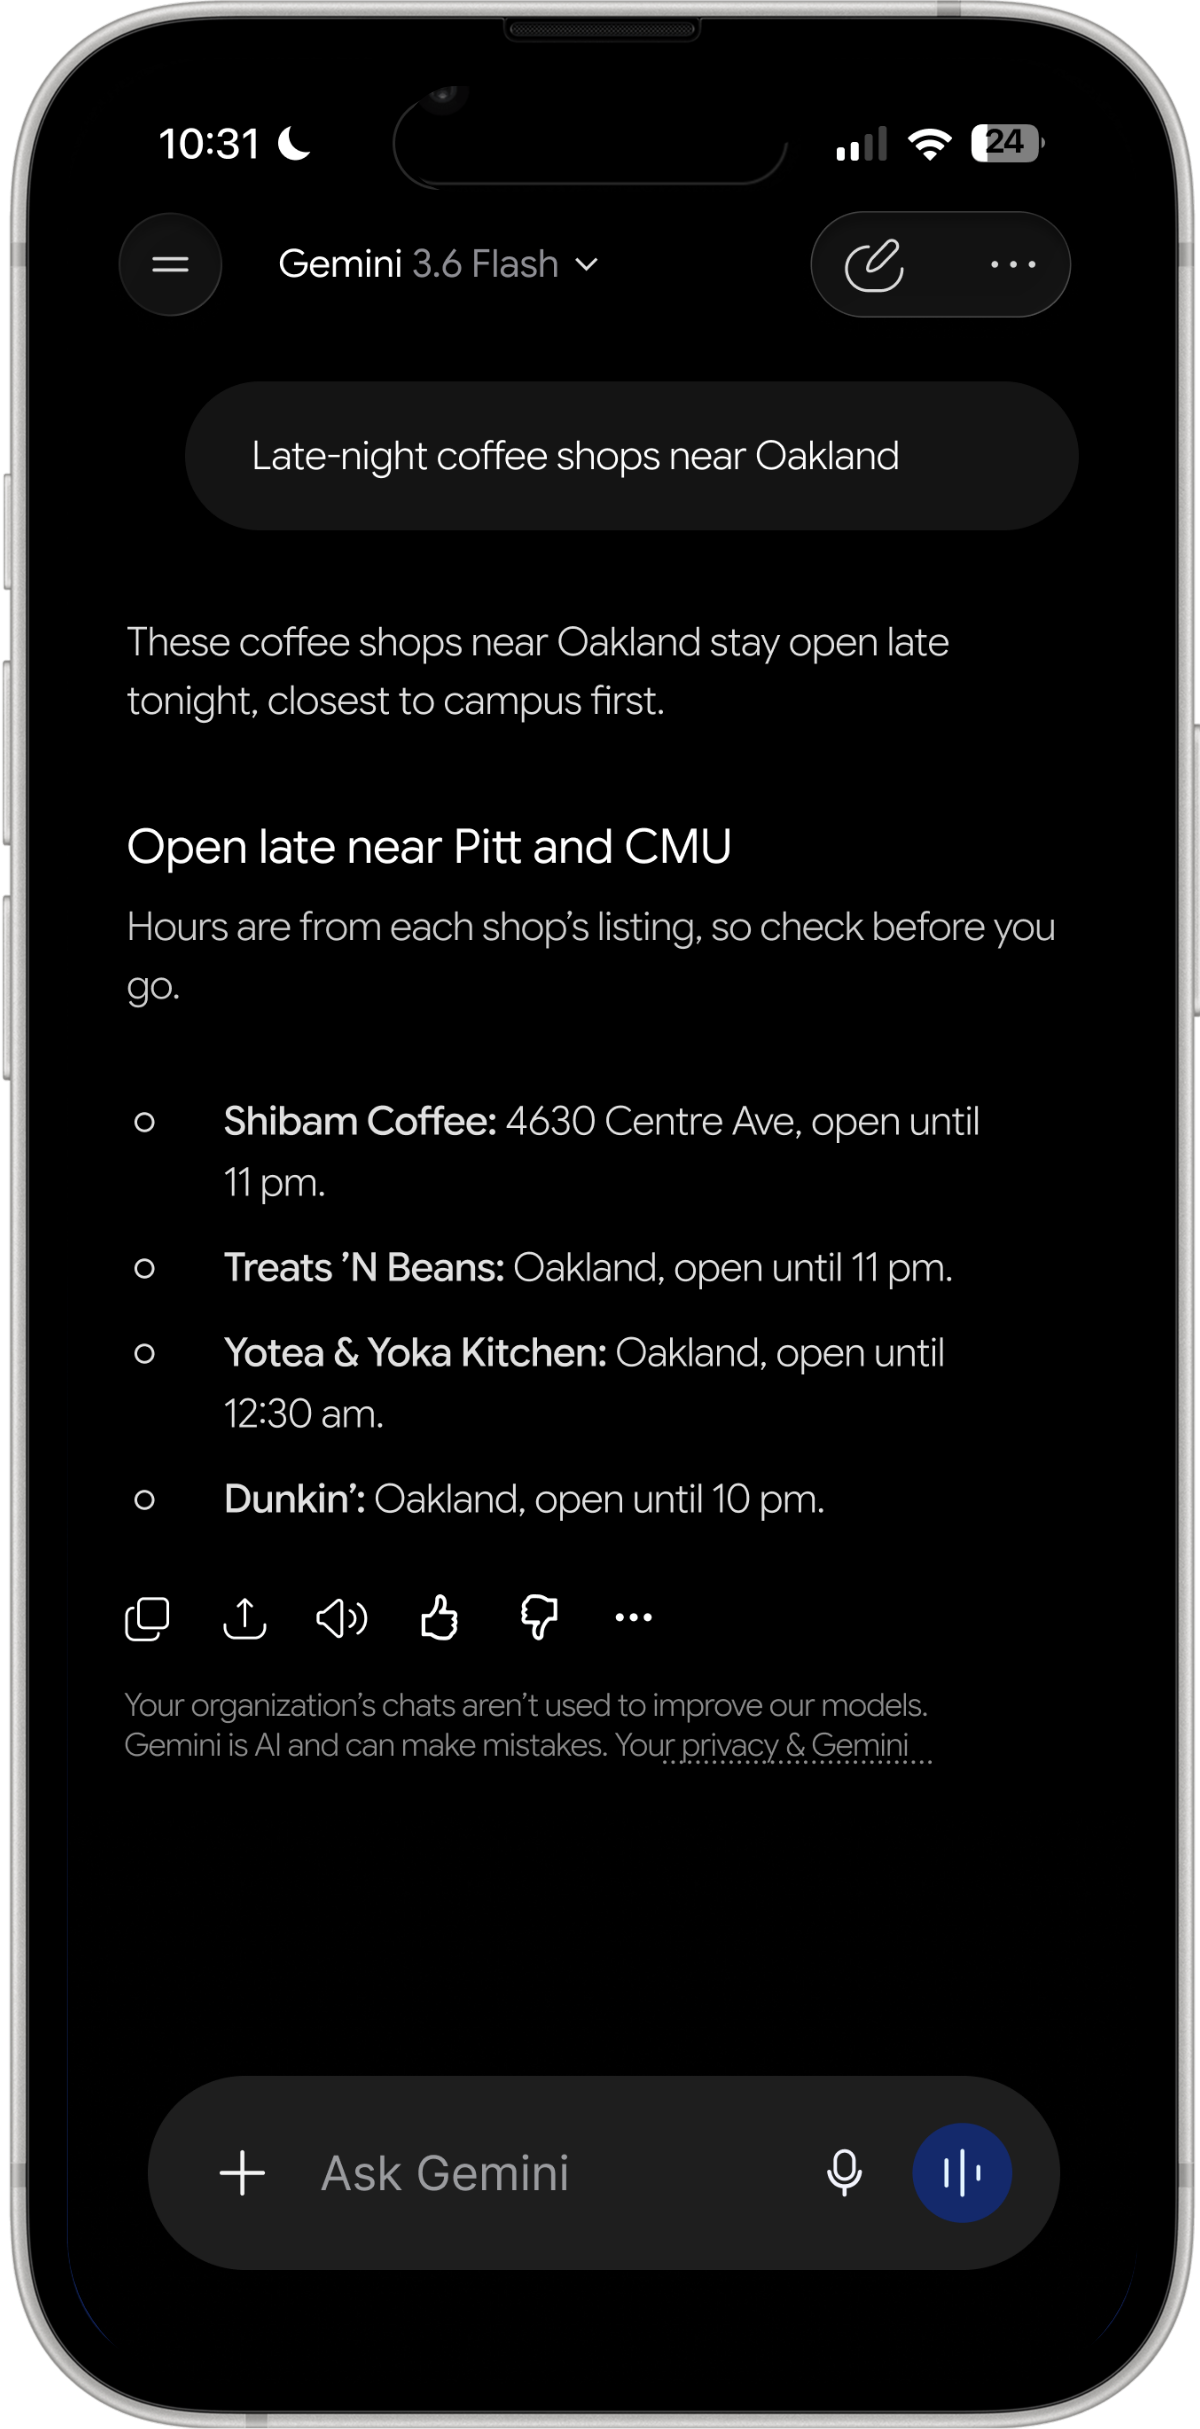
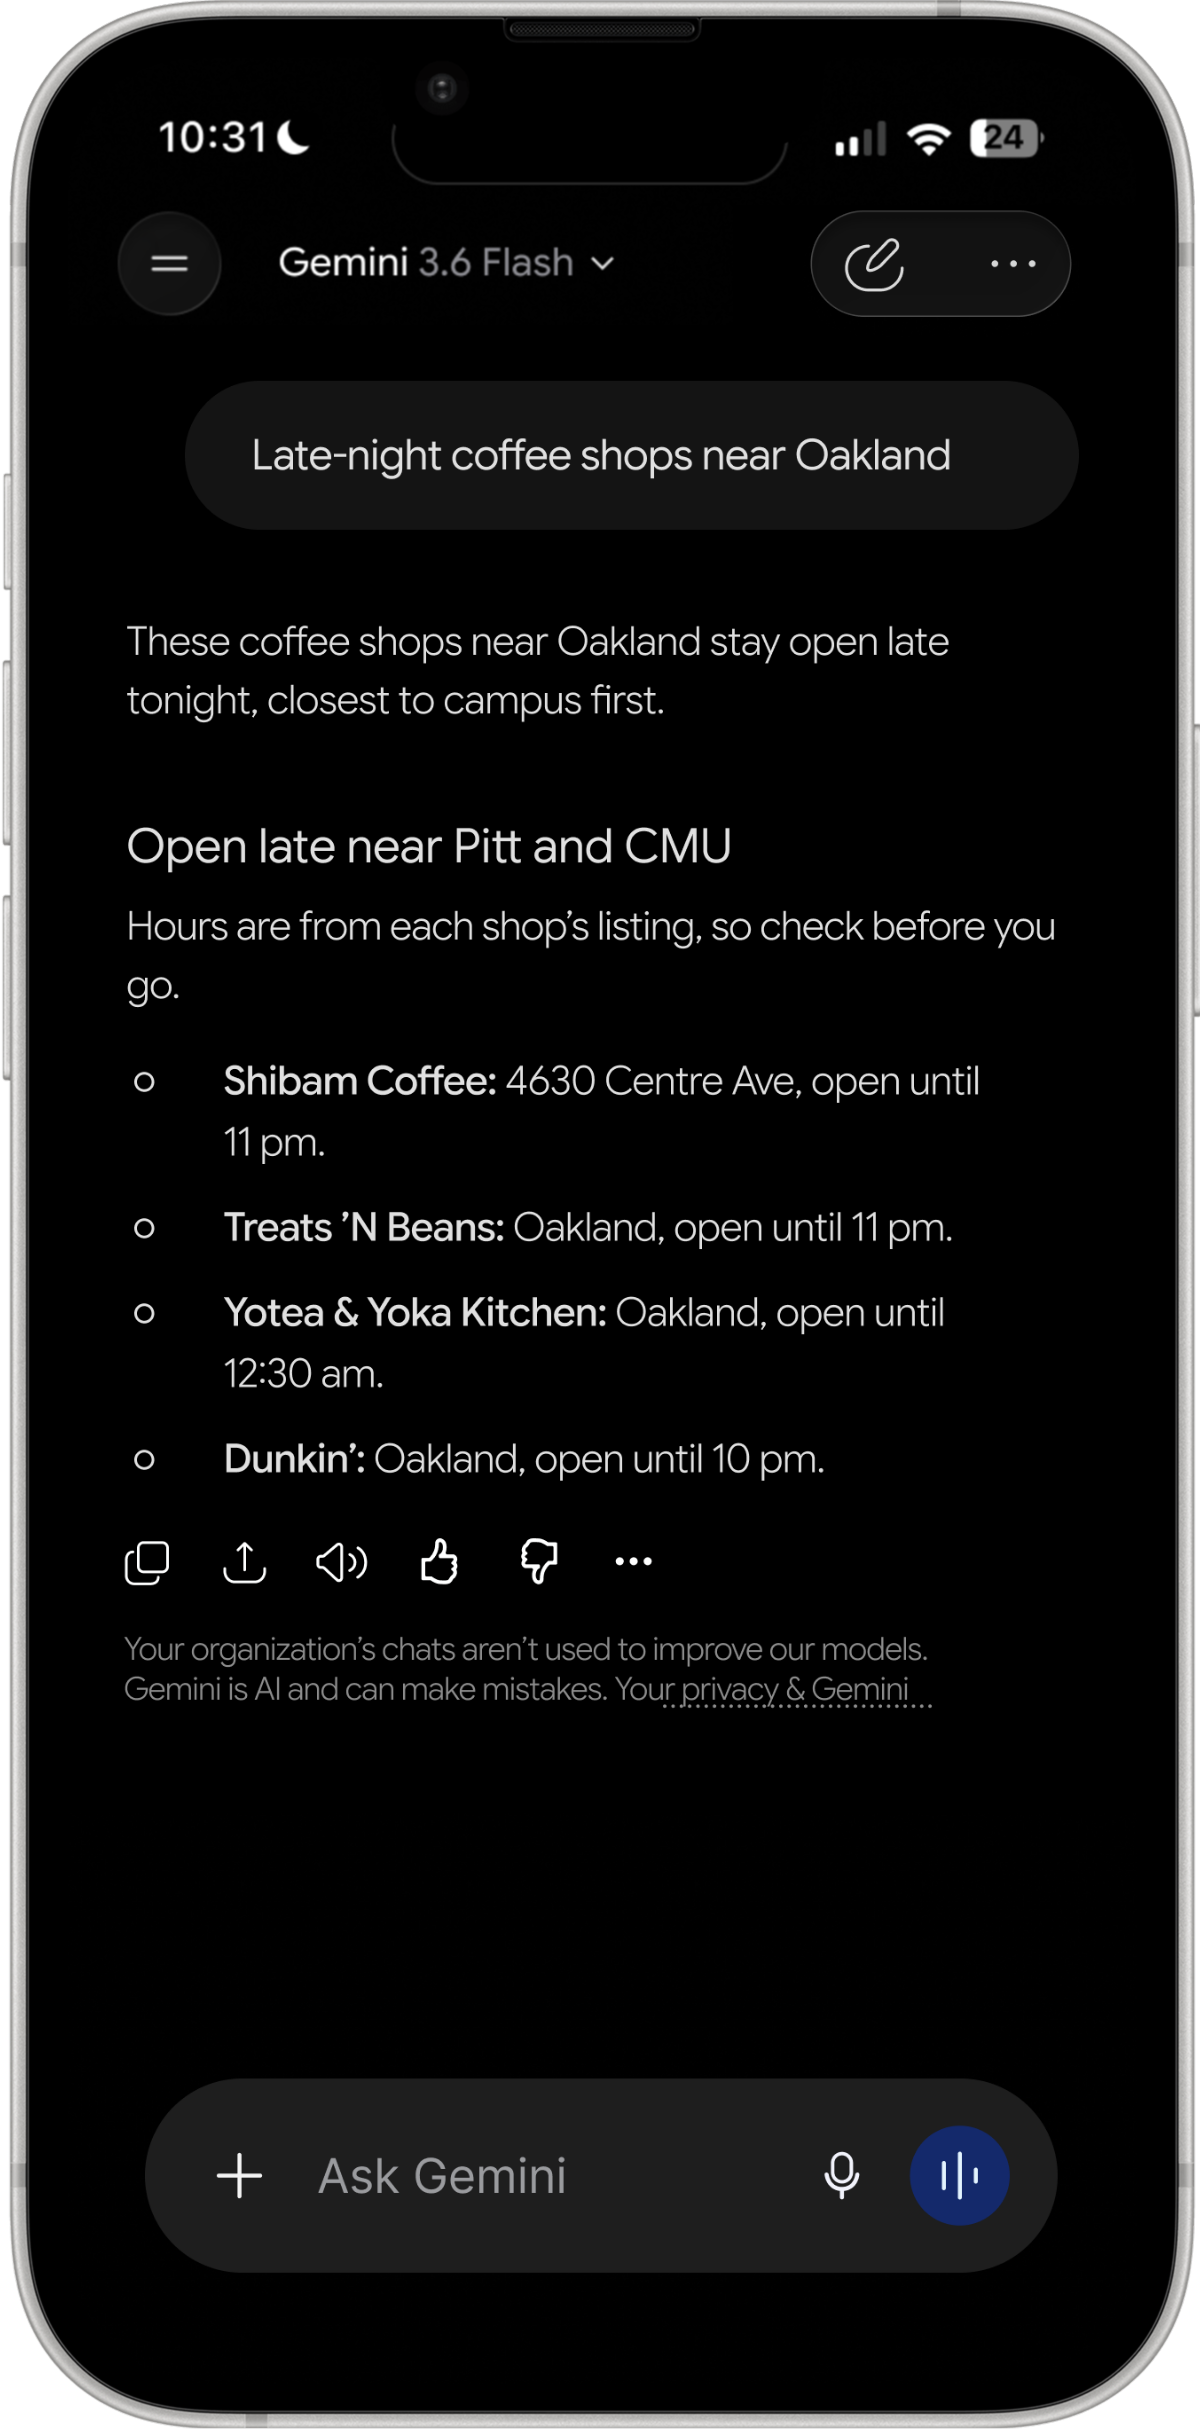
Rebuild Gemini's after-tap chats on the home render and clear before the chat appears
The chat screens now share the home render's frame, status bar and title
pixel for pixel, and their type and spacing follow the real app's
screenshots. A tap clears the greeting and cards, then the chat fades in,
so the two screens never overlap.

diff --git a/js/tap-demo.js b/js/tap-demo.js
@@ -1,7 +1,7 @@
-/* Gemini's two tap demos: a home screen, a tap on one card, and the screen
-   that card opens. Both screens are renders in the same mockup, so only the
-   screen's contents change: the result fades in over the home screen, holds,
-   and fades back before the next tap.
+/* Gemini's two tap demos: a home screen, a tap on one card, and the chat that
+   card opens. All the screens share the home render's status bar, title and
+   frame, so only the conversation changes: the greeting and cards clear, the
+   chat fades in, holds, and both fade back before the next tap.
 
    It plays while half the phone is on screen, starts from the home screen
    each time it comes back, holds for the page's Pause motion control, and
@@ -11,11 +11,12 @@
   if (!figs.length) return;
 
   if (window.matchMedia('(prefers-reduced-motion: reduce)').matches) {
-    figs.forEach(function (f) { f.classList.add('is-open'); });
+    figs.forEach(function (f) { f.classList.add('is-clear', 'is-open'); });
     return;
   }
 
-  var HOME = 1600, TAP = 450, OPEN = 3600, BACK = 700;
+  // home, tap, clear, chat held, chat out, clear out
+  var STEPS = [1600, 450, 120, 3600, 300, 500];
   function paused() { return document.body.classList.contains('motion-paused'); }
 
   figs.forEach(function (f) {
@@ -26,25 +27,27 @@
       if (!visible) return;
       if (paused()) { timer = setTimeout(next, 300); return; }
       if (step === 0) {
-        f.classList.remove('is-open');
-        step = 1; timer = setTimeout(next, HOME);
+        f.classList.remove('is-open', 'is-clear');
       } else if (step === 1) {
         f.classList.remove('is-tap'); void f.offsetWidth; f.classList.add('is-tap');
-        step = 2; timer = setTimeout(next, TAP);
       } else if (step === 2) {
+        f.classList.add('is-clear');
+      } else if (step === 3) {
         f.classList.add('is-open');
-        step = 3; timer = setTimeout(next, OPEN);
-      } else {
+      } else if (step === 4) {
         f.classList.remove('is-open');
-        step = 0; timer = setTimeout(next, BACK);
+      } else {
+        f.classList.remove('is-clear');
       }
+      timer = setTimeout(next, STEPS[step]);
+      step = (step + 1) % STEPS.length;
     }
 
     if (!('IntersectionObserver' in window)) { visible = true; next(); return; }
     new IntersectionObserver(function (entries) {
       visible = entries[0].isIntersecting;
       if (visible && !timer) { step = 0; next(); }
-      if (!visible) { clearTimeout(timer); timer = null; f.classList.remove('is-open', 'is-tap'); }
+      if (!visible) { clearTimeout(timer); timer = null; f.classList.remove('is-open', 'is-clear', 'is-tap'); }
     }, { threshold: 0.5 }).observe(f);
   });
 })();

diff --git a/work/gemini.html b/work/gemini.html
@@ -317,14 +317,16 @@
     </div>
 
     <!-- What a card opens. Both screens are built from the recreated chat
-         components and set in the same mockup as the home screen; js/tap-demo.js
-         taps the card and fades the result in. --tx and --ty place the tap on
+         components and set in the home screen's own render, so only the
+         conversation changes; js/tap-demo.js taps the card, clears the screen
+         and fades the chat in. --tx and --ty place the tap on
          the card, in the render's own proportions. -->
     <div class="split-row is-flipped has-title">
       <div class="split-art is-phone">
         <figure class="phone-fig">
           <div class="tap-demo" data-tap-demo style="--tx:71.2%; --ty:70.6%" role="img" aria-label="Tapping the Python Script Help card reopens that chat with Show me elif chains and nested if statements sent, and Gemini answers with how elif chains work.">
             <img class="tap-demo__home" loading="lazy" decoding="async" src="../images/gemini/2.png" alt="" />
+            <img class="tap-demo__clear" loading="lazy" decoding="async" src="../images/gemini/tap-clear.png" alt="" />
             <img class="tap-demo__result" loading="lazy" decoding="async" src="../images/gemini/tap-resume.png" alt="" />
             <span class="tap-demo__dot" aria-hidden="true"></span>
           </div>
@@ -342,6 +344,7 @@
         <figure class="phone-fig">
           <div class="tap-demo" data-tap-demo style="--tx:29.3%; --ty:70.6%" role="img" aria-label="Tapping the late-night coffee card starts a new chat with that request sent, and Gemini lists coffee shops near Oakland that are open late.">
             <img class="tap-demo__home" loading="lazy" decoding="async" src="../images/gemini/2.png" alt="" />
+            <img class="tap-demo__clear" loading="lazy" decoding="async" src="../images/gemini/tap-clear.png" alt="" />
             <img class="tap-demo__result" loading="lazy" decoding="async" src="../images/gemini/tap-evening.png" alt="" />
             <span class="tap-demo__dot" aria-hidden="true"></span>
           </div>

diff --git a/css/style.css b/css/style.css
@@ -4248,9 +4248,10 @@ html.has-cursor .about-pill:hover {
 .kit-board > a,
 a.pos-plate { display: block; }
 
-/* Gemini's tap demos: the home screen, a tap where the card is, and the
-   screen it opens faded in over it. Both are renders in one mockup, so only
-   the screen changes. js/tap-demo.js drives the classes. */
+/* Gemini's tap demos: the home screen, a tap where the card is, the
+   conversation area clearing, then the chat fading in. All three are the home
+   render with only the screen's contents replaced, so the status bar, title
+   and frame never move. js/tap-demo.js drives the classes. */
 .tap-demo {
   position: relative;
   margin: 0;
@@ -4260,12 +4261,15 @@ a.pos-plate { display: block; }
   width: 100%;
   height: auto;
 }
+.tap-demo__clear,
 .tap-demo__result {
   position: absolute;
   inset: 0;
   opacity: 0;
-  transition: opacity 0.45s ease-out;
 }
+.tap-demo__clear { transition: opacity 0.2s ease-out; }
+.tap-demo__result { transition: opacity 0.3s ease-out; }
+.tap-demo.is-clear .tap-demo__clear,
 .tap-demo.is-open .tap-demo__result { opacity: 1; }
 .tap-demo__dot {
   position: absolute;
